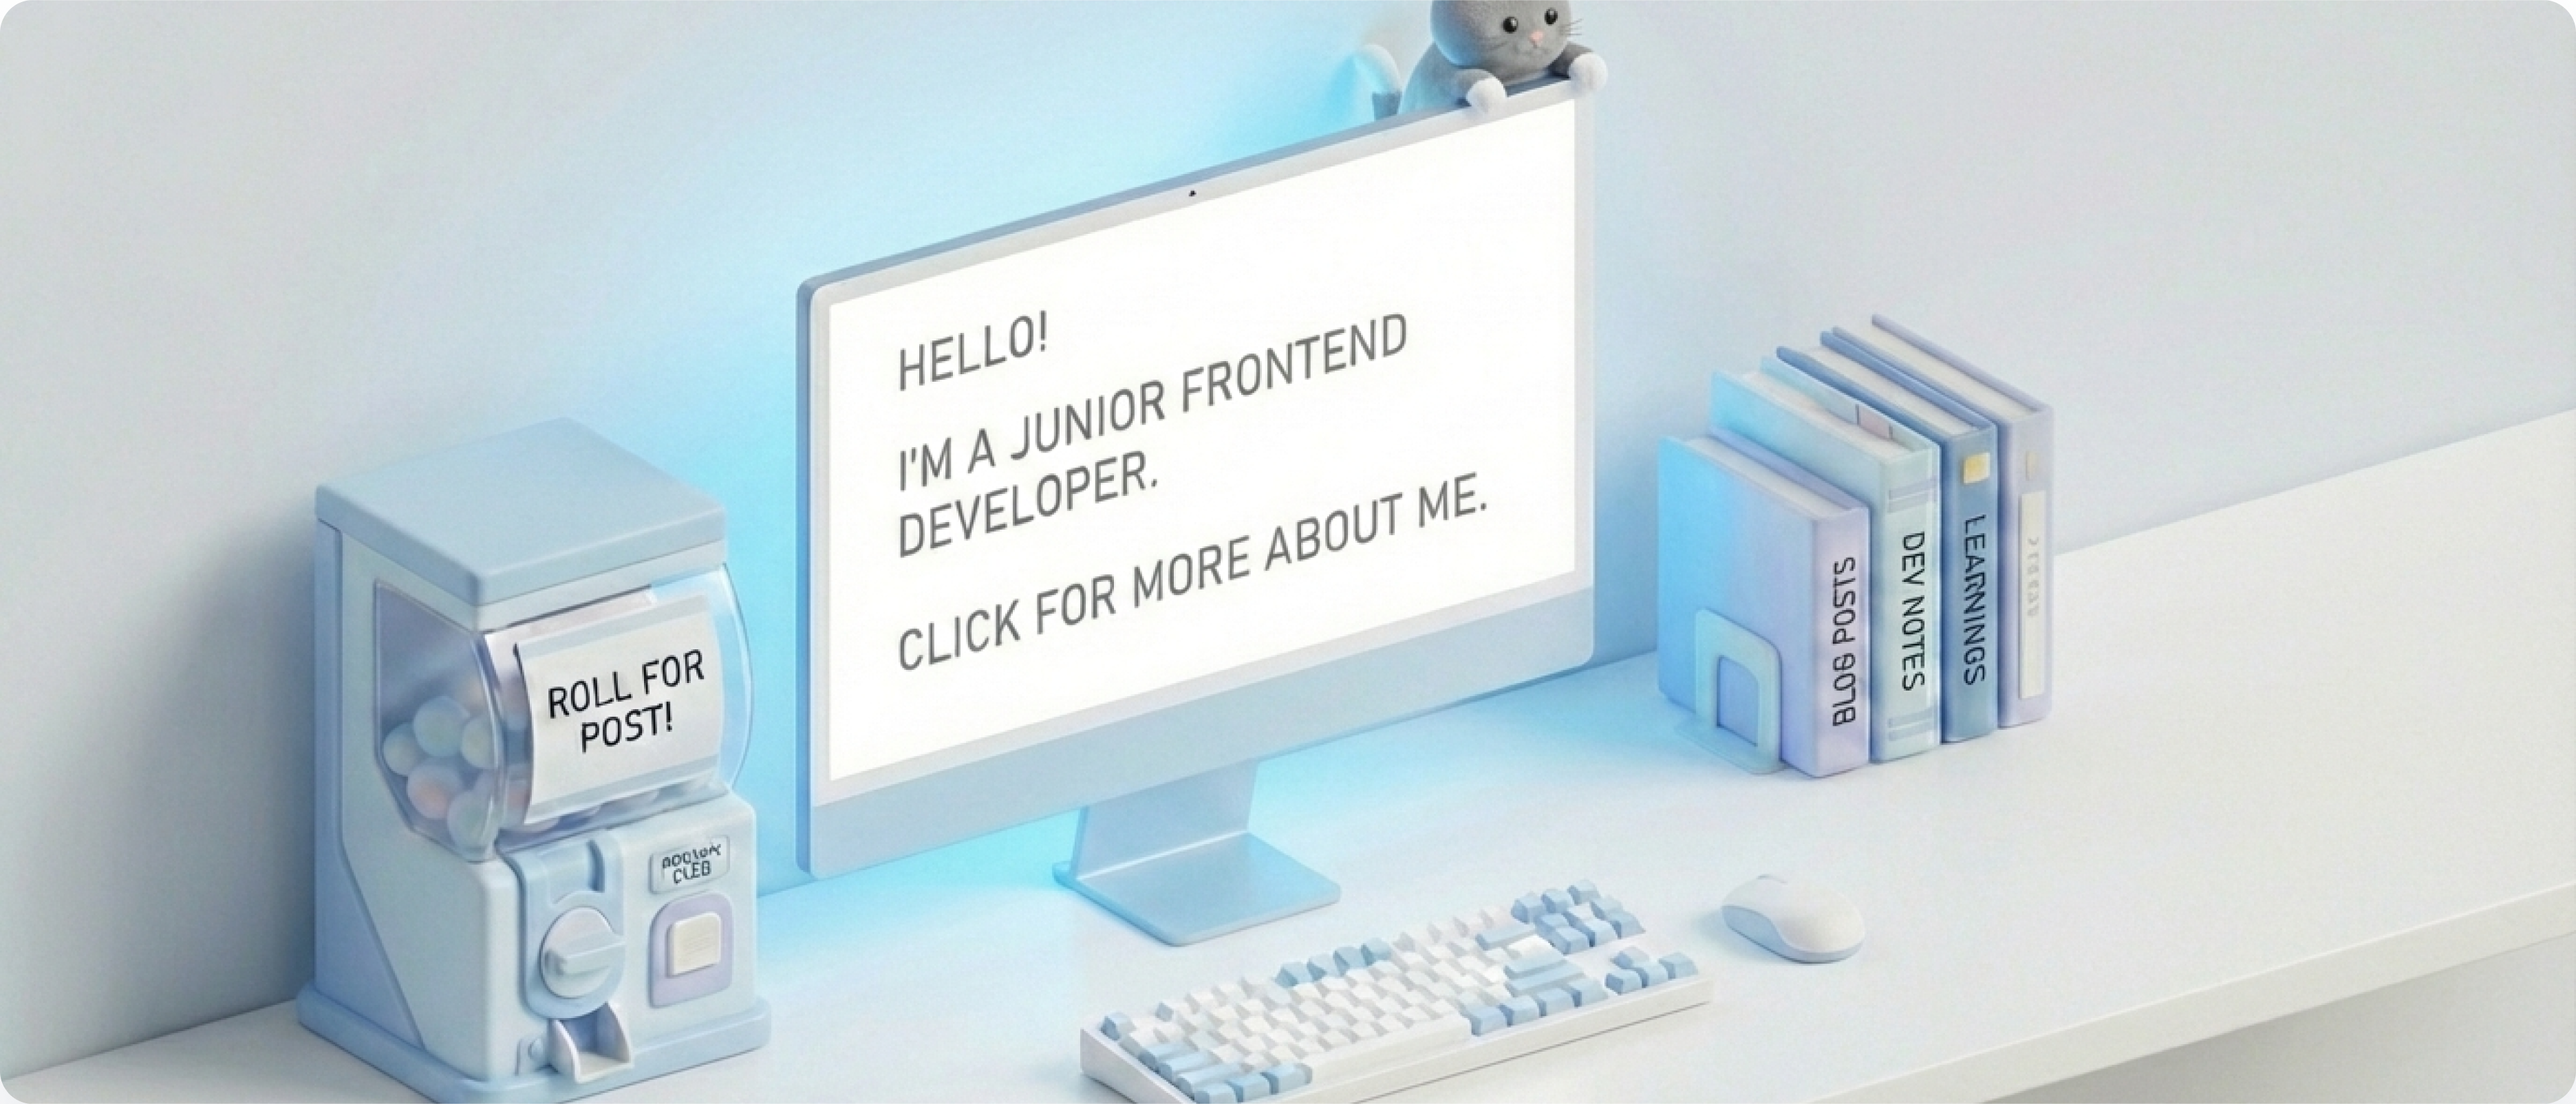
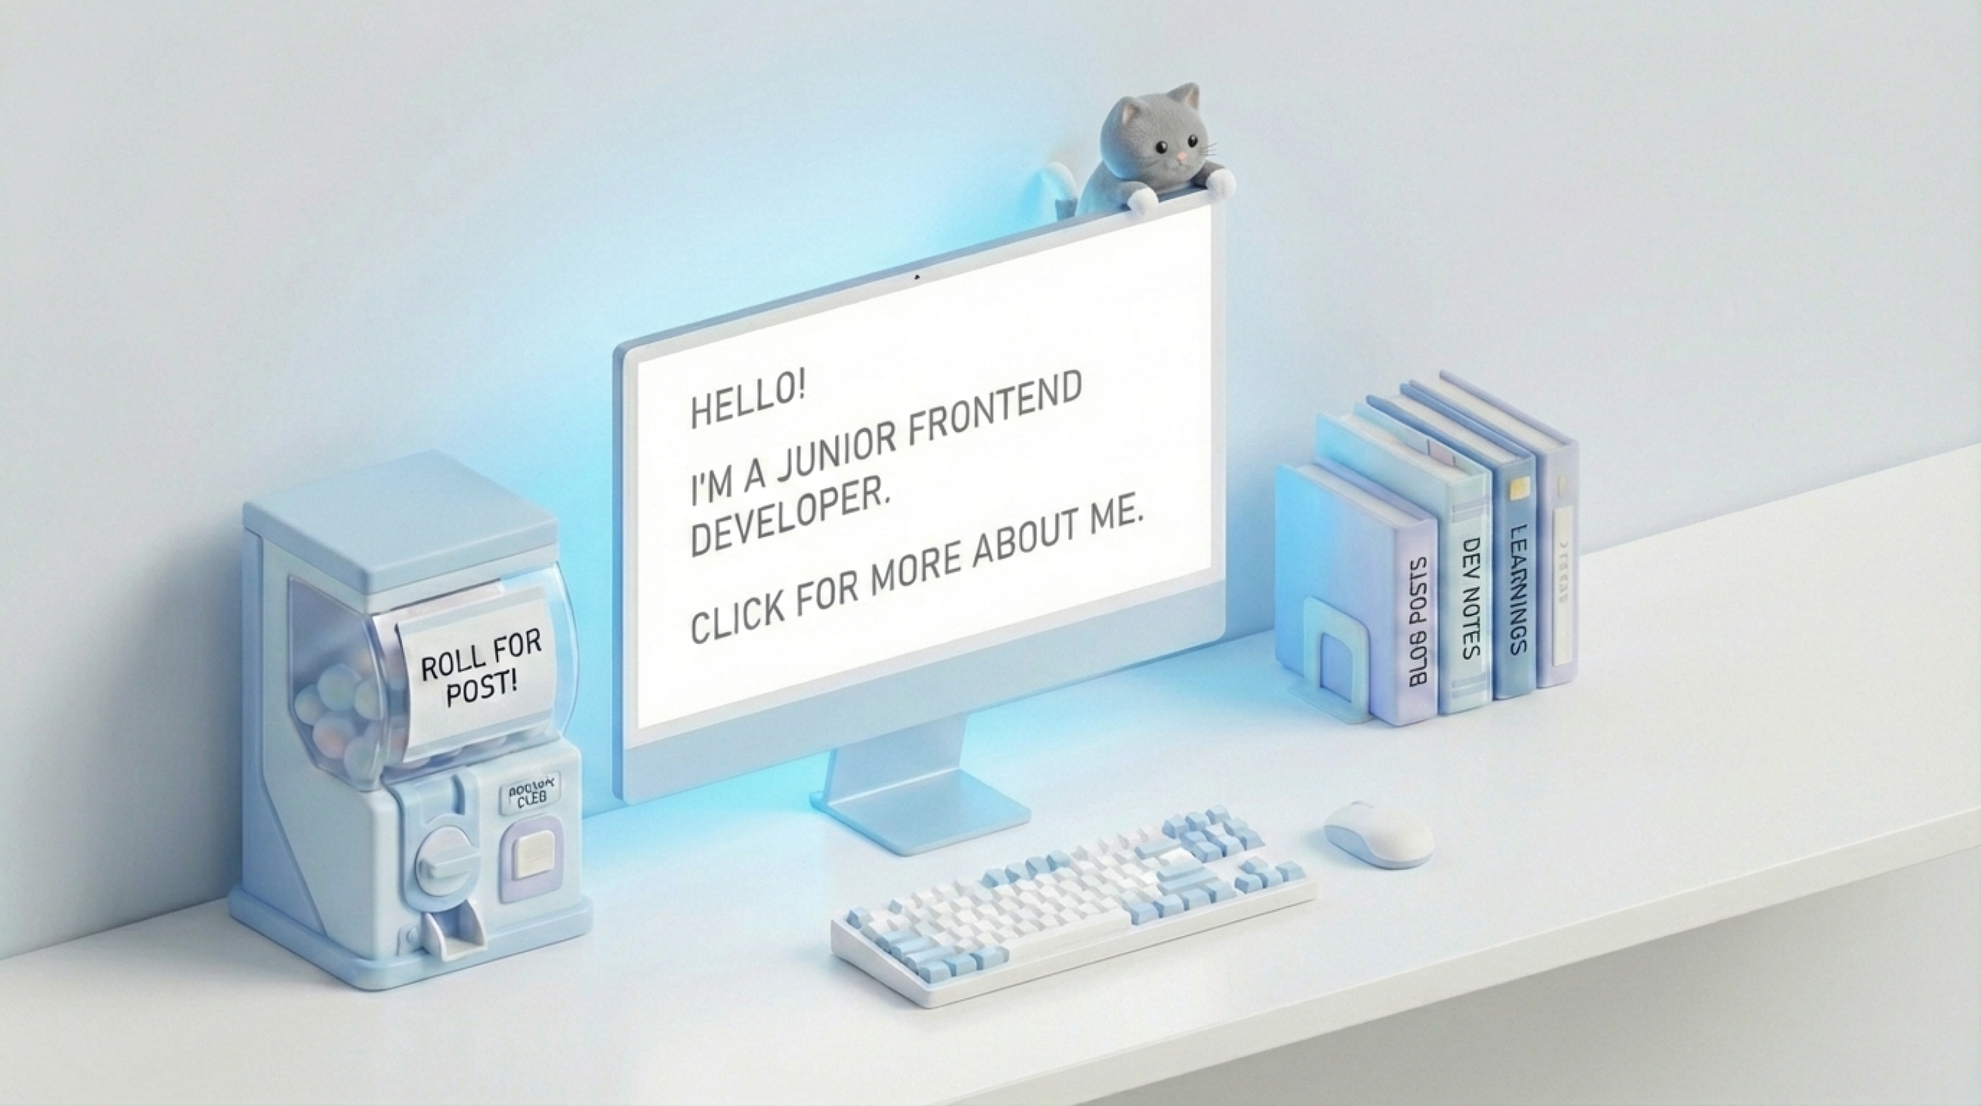
feat: 홈 페이지 구현 및 룰렛 관련 coming soon 말풍선 추가

diff --git a/src/app/page.tsx b/src/app/page.tsx
@@ -1,18 +1,26 @@
 import Image from "next/image";
 
 import heroImage from "@/assets/images/hero.webp";
+import SpeechBubble from "@/components/SpeechBubble";
 
 export default function Home() {
   return (
-    <div className="relative w-[87vw]">
+    <div className="relative file:w-full">
       <Image
         src={heroImage}
         alt="데스트 셋업"
         priority
         placeholder="blur"
-        sizes="87vw"
+        sizes="100%"
         className="h-auto w-full rounded-md"
       />
+      <button
+        type="button"
+        disabled
+        className="xs:top-[36%] absolute left-[20%] top-[34%] translate-x-[-50%] translate-y-[-50%] text-[12px] leading-[1.4] md:top-[36%] md:text-sm [@media(max-width:320px)]:top-[32%]"
+      >
+        <SpeechBubble tailPosition="bottom">Coming Soon</SpeechBubble>
+      </button>
     </div>
   );
 }
